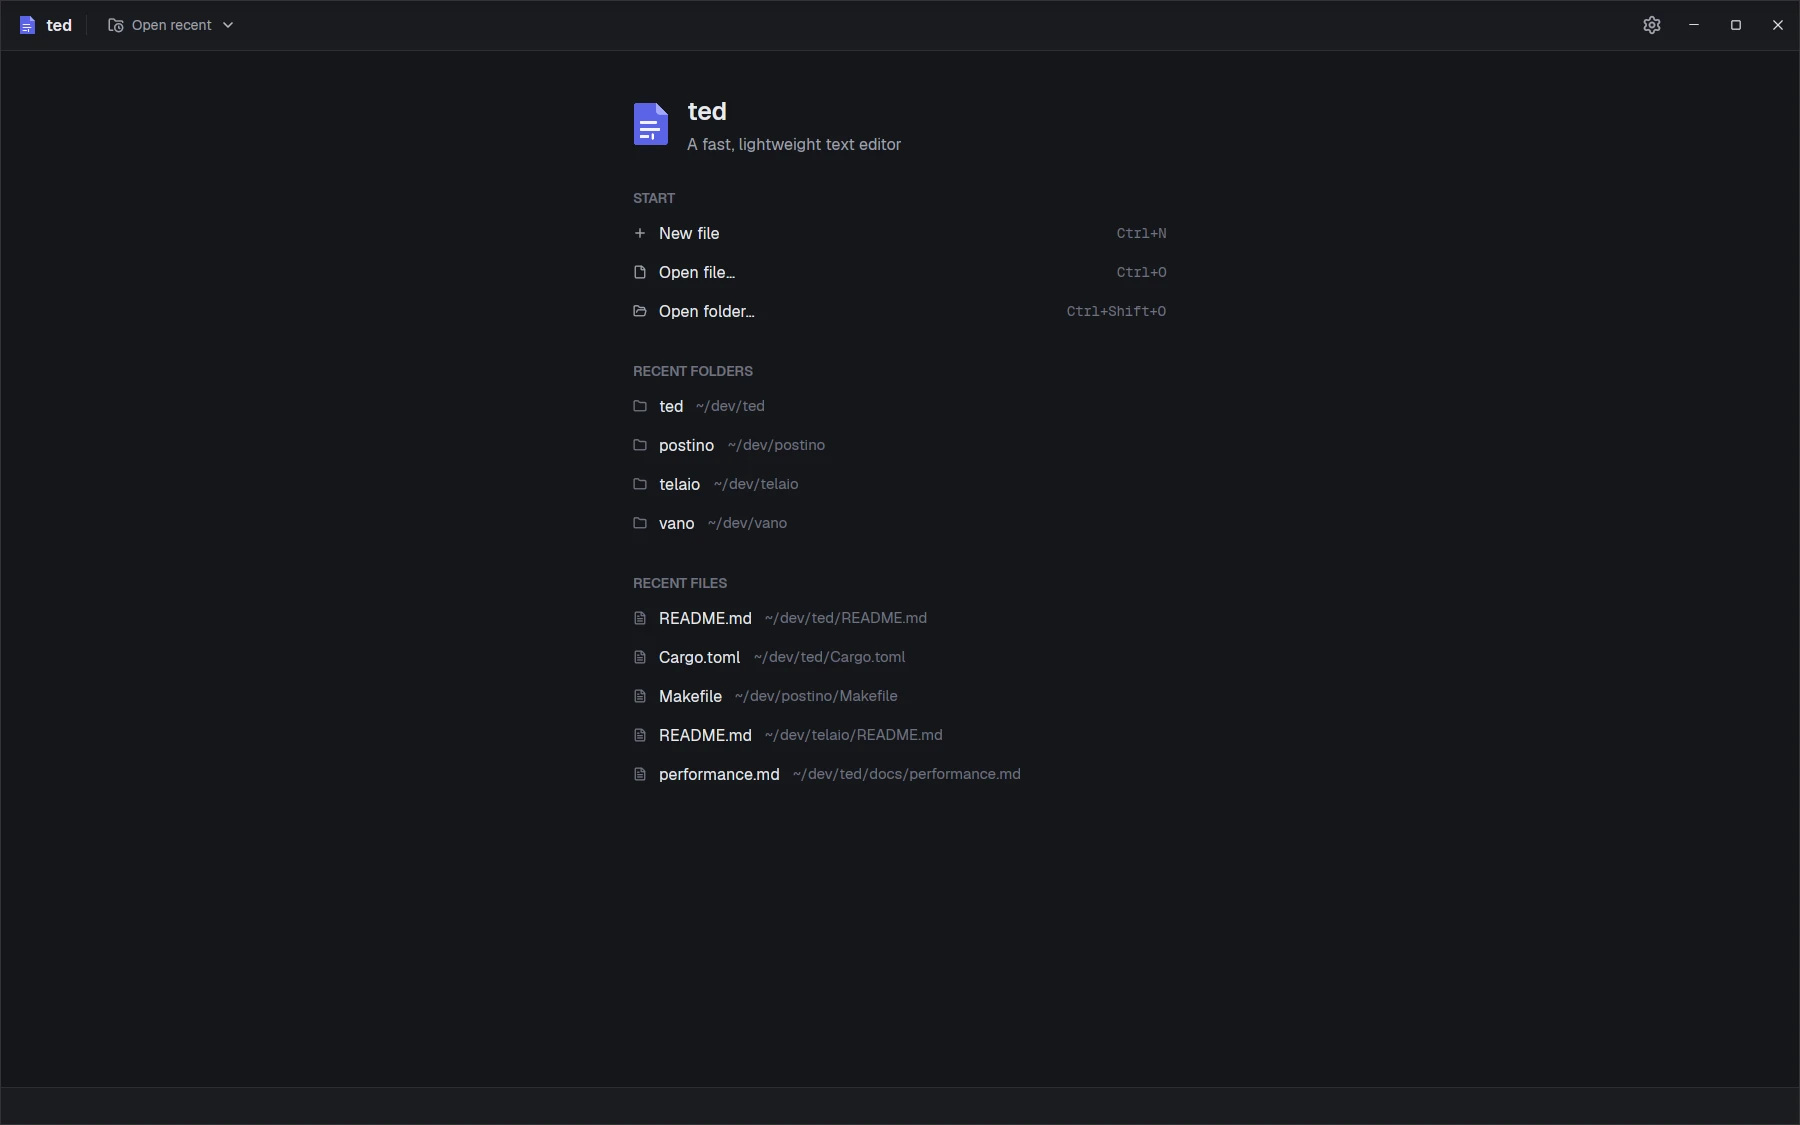
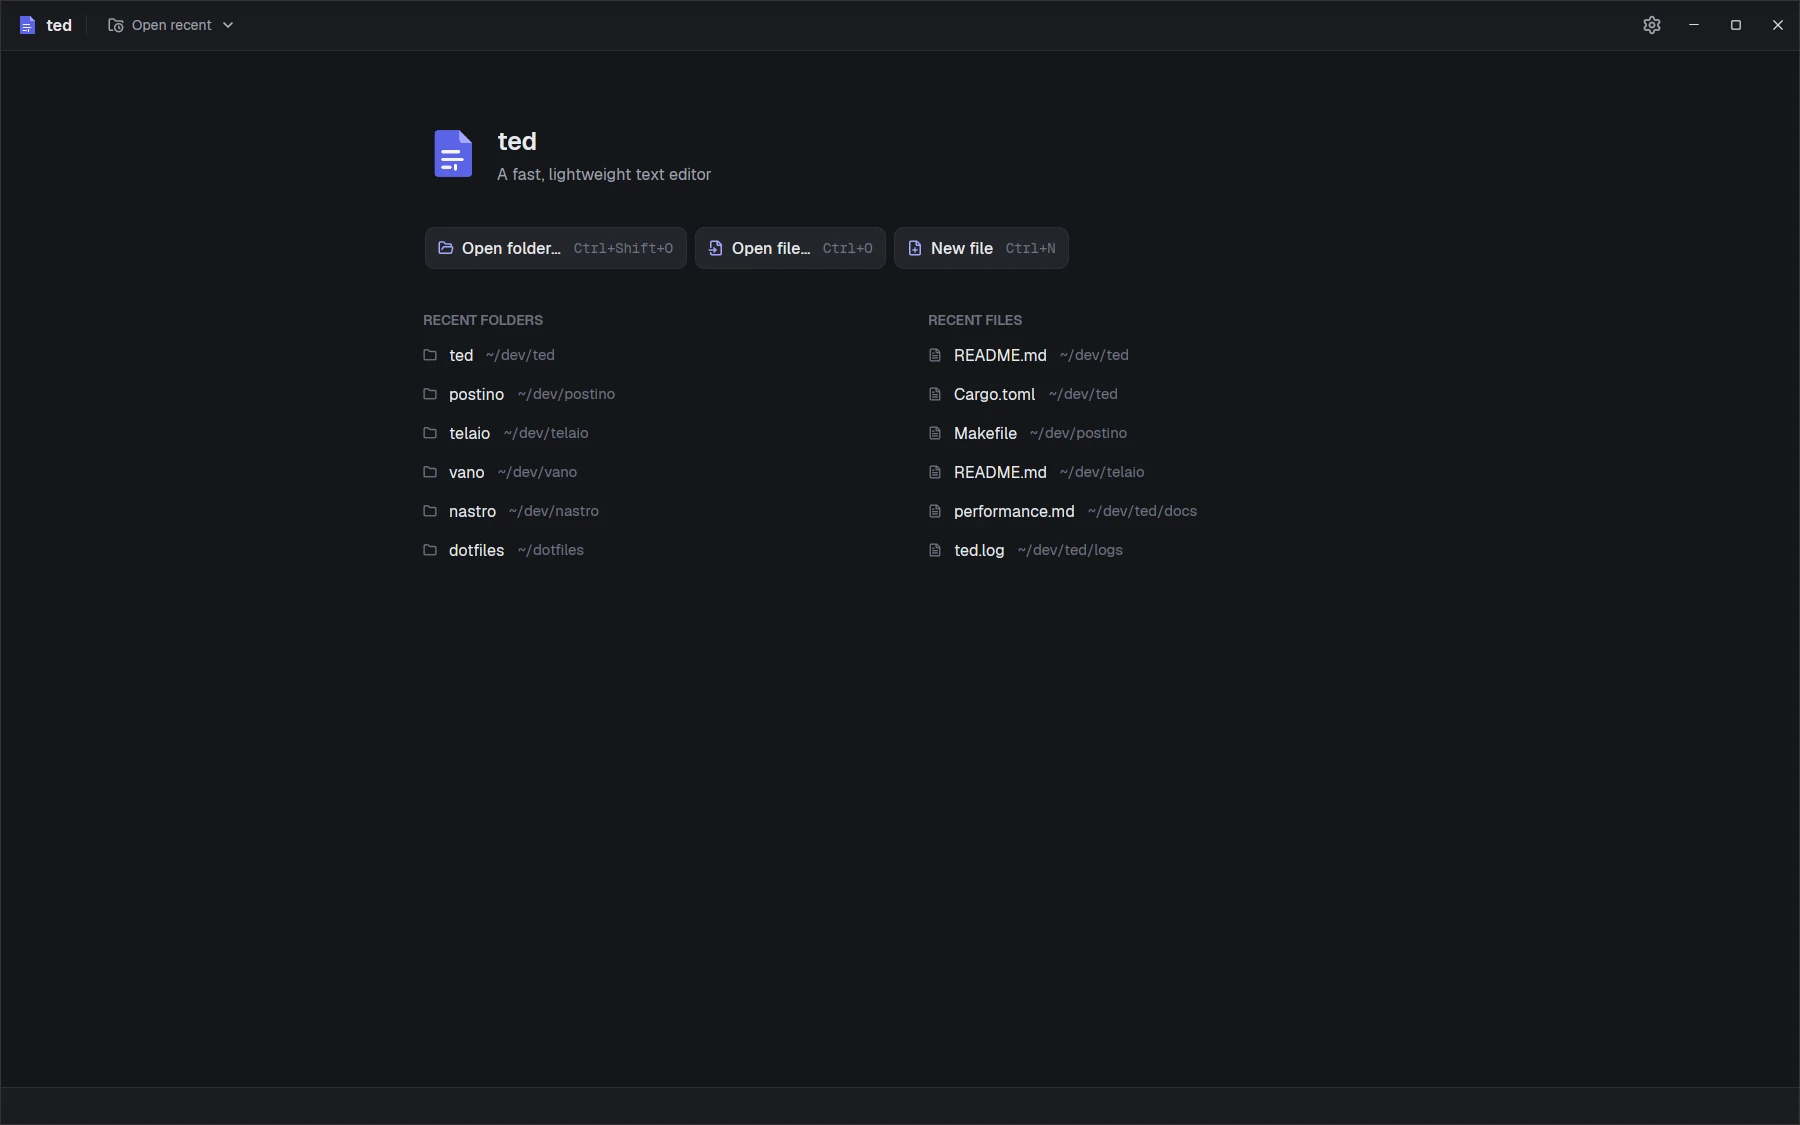
Welcome screen: recent folders and files in two columns
As in design v3: the actions become a row of buttons (Open folder, Open
file, New file) and the recents sit side by side in columns at least
280 px wide, stacking when the window is narrow. Recent files show their
parent folder. New screenshots for the website.

Closes #42

diff --git a/site/docs-src/pages/quick-start.html b/site/docs-src/pages/quick-start.html
@@ -5,10 +5,10 @@ description: Open a file or a folder, edit, find, save and change the settings, 
 <p class="lead">ted works on files and folders as they are on your disk: there is no project to create. This page goes through a first session.</p>
 
 <h2>Open something</h2>
-<p>With nothing open, ted shows its empty state: <strong>New file</strong>, <strong>Open file…</strong>, <strong>Open folder…</strong>, and the folders and files you opened last. It scrolls when the list does not fit in the window. <strong>New file</strong> creates an untitled document that fills the window; see <a href="saving.html#new-documents">New documents</a>. To start with a new file instead, set <strong>Startup</strong> in <a href="settings.html">Settings</a>.</p>
+<p>With nothing open, ted shows its empty state: <strong>Open folder…</strong>, <strong>Open file…</strong> and <strong>New file</strong>, and below them the folders and files you opened last, in two columns (one when the window is narrow). It scrolls when the lists do not fit in the window. <strong>New file</strong> creates an untitled document that fills the window; see <a href="saving.html#new-documents">New documents</a>. To start with a new file instead, set <strong>Startup</strong> in <a href="settings.html">Settings</a>.</p>
 <div class="shot">
-    <img class="light" src="../img/welcome-light.webp" width="1800" height="1125" loading="lazy" alt="The empty state: New file, Open file and Open folder, then the recent folders and files.">
-    <img class="dark" src="../img/welcome-dark.webp" width="1800" height="1125" loading="lazy" alt="The empty state: New file, Open file and Open folder, then the recent folders and files.">
+    <img class="light" src="../img/welcome-light.webp" width="1800" height="1125" loading="lazy" alt="The empty state: Open folder, Open file and New file, then the recent folders and files in two columns.">
+    <img class="dark" src="../img/welcome-dark.webp" width="1800" height="1125" loading="lazy" alt="The empty state: Open folder, Open file and New file, then the recent folders and files in two columns.">
 </div>
 <ul>
     <li><strong>A file</strong> (<kbd>Ctrl</kbd> <kbd>O</kbd>) opens on its own: the editor fills the window.</li>

diff --git a/site/index.html b/site/index.html
@@ -178,9 +178,9 @@
                         </div>
                         <div class="shot">
                             <img class="light" src="img/welcome-light.webp" width="1800" height="1125" loading="lazy"
-                                alt="The empty state: Open file and Open folder, then the recent folders and files.">
+                                alt="The empty state: Open folder, Open file and New file, then the recent folders and files in two columns.">
                             <img class="dark" src="img/welcome-dark.webp" width="1800" height="1125" loading="lazy"
-                                alt="The empty state: Open file and Open folder, then the recent folders and files.">
+                                alt="The empty state: Open folder, Open file and New file, then the recent folders and files in two columns.">
                         </div>
                     </article>
                 </div>

diff --git a/crates/ted-app/src/views/welcome.rs b/crates/ted-app/src/views/welcome.rs
@@ -1,9 +1,11 @@
 //! The empty state: what the window shows with nothing open. A centered column with the logo,
-//! the New file and Open actions and the recent folders and files, scrolled when it does not fit. Its rows are the design's recents menu
-//! rows (30 px, icon 14, name, path in 12 px `fg_subtle`), shown without the menu's card.
+//! the Open folder, Open file and New file buttons, and the recent folders and files in two
+//! columns, scrolled when it does not fit. The recent rows are the design's recents menu rows
+//! (30 px, icon 14, name, path in 12 px `fg_subtle`), shown without the menu's card.
 
 use std::path::{Path, PathBuf};
 
+use gpui_kit::assets::IconName as AssetIcon;
 use gpui_kit::component::scroll::Scrollbar;
 use gpui_kit::component::*;
 use gpui_kit::prelude::*;
@@ -16,7 +18,9 @@ use super::logo::logo;
 use crate::actions::hints;
 use crate::state::launch::{display_name, shorten_path};
 use crate::theme::metrics::{
-    RADIUS_MD, WELCOME_LOGO_SIZE, WELCOME_ROW_HEIGHT, WELCOME_SECTION_GAP, WELCOME_WIDTH,
+    RADIUS_MD, WELCOME_BUTTON_HEIGHT, WELCOME_COLUMN_GAP, WELCOME_COLUMN_MIN_WIDTH,
+    WELCOME_COLUMN_ROW_GAP, WELCOME_LOGO_SIZE, WELCOME_ROW_HEIGHT, WELCOME_SECTION_GAP,
+    WELCOME_WIDTH,
 };
 use crate::theme::{Palette, PaletteExt};
 
@@ -27,70 +31,69 @@ impl AppView {
     pub(crate) fn render_welcome(&self, cx: &mut Context<Self>) -> AnyElement {
         let palette = cx.palette();
         let home = std::env::home_dir();
-        let mut column = v_flex()
-            .w(px(WELCOME_WIDTH))
-            .max_w_full()
-            .gap(px(WELCOME_SECTION_GAP))
-            .child(render_header(&palette))
-            .child(
-                section(t!("welcome.start"))
-                    .child(self.action_row(
-                        "new-file",
-                        IconName::Plus,
-                        t!("open.new_file"),
-                        hints::NEW_FILE,
-                        |this, window, cx| this.new_document(window, cx),
-                        cx,
-                    ))
-                    .child(self.action_row(
-                        "open-file",
-                        IconName::File,
-                        t!("welcome.open_file"),
-                        hints::OPEN_FILE,
-                        |this, window, cx| this.prompt_open(false, window, cx),
-                        cx,
-                    ))
-                    .child(self.action_row(
-                        "open-folder",
-                        IconName::FolderOpen,
-                        t!("welcome.open_folder"),
-                        hints::OPEN_FOLDER,
-                        |this, window, cx| this.prompt_open(true, window, cx),
-                        cx,
-                    )),
-            );
+        let actions = h_flex()
+            .flex_wrap()
+            .gap_2()
+            .child(self.action_button(
+                "open-folder",
+                AssetIcon::FolderOpen,
+                t!("welcome.open_folder"),
+                hints::OPEN_FOLDER,
+                |this, window, cx| this.prompt_open(true, window, cx),
+                cx,
+            ))
+            .child(self.action_button(
+                "open-file",
+                AssetIcon::FileInput,
+                t!("welcome.open_file"),
+                hints::OPEN_FILE,
+                |this, window, cx| this.prompt_open(false, window, cx),
+                cx,
+            ))
+            .child(self.action_button(
+                "new-file",
+                AssetIcon::FilePlus,
+                t!("open.new_file"),
+                hints::NEW_FILE,
+                |this, window, cx| this.new_document(window, cx),
+                cx,
+            ));
+        // The recents in two columns that wrap to one when the window is narrow, as the
+        // design's `repeat(auto-fit, minmax(280px, 1fr))` grid. The rows' own padding lines
+        // their text up with the actions above, so the columns reach 8 px past each side.
+        let mut recents = h_flex()
+            .flex_wrap()
+            .items_start()
+            .gap_x(px(WELCOME_COLUMN_GAP))
+            .gap_y(px(WELCOME_COLUMN_ROW_GAP))
+            .mx(px(-8.0));
         if !self.recents.folders.is_empty() {
-            column = column.child(
-                section(t!("welcome.recent_folders")).children(
+            recents = recents.child(
+                recents_column(t!("welcome.recent_folders")).children(
                     self.recents
                         .folders
                         .iter()
                         .enumerate()
                         .map(|(index, path)| {
-                            self.recent_row(
-                                ("folder", index),
-                                IconName::Folder,
-                                path,
-                                home.as_deref(),
-                                cx,
-                            )
+                            self.recent_row(("folder", index), true, path, home.as_deref(), cx)
                         }),
                 ),
             );
         }
         if !self.recents.files.is_empty() {
-            column = column.child(section(t!("welcome.recent_files")).children(
+            recents = recents.child(recents_column(t!("welcome.recent_files")).children(
                 self.recents.files.iter().enumerate().map(|(index, path)| {
-                    self.recent_row(
-                        ("file", index),
-                        IconName::FileText,
-                        path,
-                        home.as_deref(),
-                        cx,
-                    )
+                    self.recent_row(("file", index), false, path, home.as_deref(), cx)
                 }),
             ));
         }
+        let column = v_flex()
+            .w_full()
+            .max_w(px(WELCOME_WIDTH))
+            .gap(px(WELCOME_SECTION_GAP))
+            .child(render_header(&palette))
+            .child(actions)
+            .child(recents);
         let area = div()
             .id("welcome")
             .size_full()
@@ -101,9 +104,9 @@ impl AppView {
             // The column keeps its own height, so it overflows (and scrolls) instead of being
             // stretched to the window and cut.
             .items_start()
-            .px_4()
-            .pt(px(32.0))
-            .pb(px(64.0))
+            .px_8()
+            .pt(px(56.0))
+            .pb(px(48.0))
             .child(column);
         // The scrollbar over the area, as Postino's welcome tab. It shows only when the column
         // does not fit.
@@ -141,22 +144,36 @@ impl AppView {
             .into_any_element()
     }
 
-    /// An action: icon, label and the shortcut hint at the right.
-    fn action_row(
+    /// An action button: a raised 34 px button with the accent icon, the label and the
+    /// shortcut hint.
+    fn action_button(
         &self,
         id: &'static str,
-        icon: IconName,
+        icon: AssetIcon,
         label: impl Into<SharedString>,
         hint: &'static str,
         action: impl Fn(&mut Self, &mut Window, &mut Context<Self>) + 'static,
         cx: &mut Context<Self>,
     ) -> Stateful<Div> {
         let palette = cx.palette();
-        row(id, &palette)
-            .child(Icon::new(icon).small().text_color(palette.fg_muted))
-            .child(div().flex_1().child(label.into()))
+        let (hover_border, hover_bg) = (palette.border_strong, palette.overlay);
+        h_flex()
+            .id(id)
+            .h(px(WELCOME_BUTTON_HEIGHT))
+            .px_3()
+            .gap_2()
+            .items_center()
+            .rounded(px(RADIUS_MD))
+            .bg(palette.raised)
+            .border_1()
+            .border_color(palette.border)
+            .cursor_pointer()
+            .hover(move |style| style.border_color(hover_border).bg(hover_bg))
+            .child(Icon::new(icon).text_color(palette.accent_text))
+            .child(div().font_weight(FontWeight::MEDIUM).child(label.into()))
             .child(
                 div()
+                    .ml_1()
                     .font_family(cx.theme().mono_font_family.clone())
                     .text_size(px(11.0))
                     .text_color(palette.fg_subtle)
@@ -165,17 +182,22 @@ impl AppView {
             .on_click(cx.listener(move |this, _, window, cx| action(this, window, cx)))
     }
 
-    /// A recent folder or file: icon, name and the shortened path, which opens it when clicked.
+    /// A recent folder or file: icon, name and the shortened path (the folder that holds it, for
+    /// a file), which opens it when clicked.
     fn recent_row(
         &self,
         id: impl Into<ElementId>,
-        icon: IconName,
+        folder: bool,
         path: &Path,
         home: Option<&Path>,
         cx: &mut Context<Self>,
     ) -> Stateful<Div> {
         let palette = cx.palette();
         let target: PathBuf = path.to_path_buf();
+        let (icon, location) = match folder {
+            true => (IconName::Folder, path),
+            false => (IconName::FileText, path.parent().unwrap_or(path)),
+        };
         row(id, &palette)
             .child(Icon::new(icon).small().text_color(palette.fg_subtle))
             .child(
@@ -192,7 +214,7 @@ impl AppView {
                     .truncate()
                     .text_size(px(12.0))
                     .text_color(palette.fg_subtle)
-                    .child(shorten_path(path, home)),
+                    .child(shorten_path(location, home)),
             )
             .on_click(cx.listener(move |this, _, window, cx| this.open_path(&target, window, cx)))
     }
@@ -200,7 +222,7 @@ impl AppView {
 
 /// The large logo, the name and the tagline.
 fn render_header(palette: &Palette) -> impl IntoElement {
-    h_flex().gap_3().child(logo(WELCOME_LOGO_SIZE)).child(
+    h_flex().gap(px(14.0)).child(logo(WELCOME_LOGO_SIZE)).child(
         v_flex()
             .child(
                 div()
@@ -216,9 +238,13 @@ fn render_header(palette: &Palette) -> impl IntoElement {
     )
 }
 
-/// A section: its label, then its rows.
-fn section(label: impl Into<SharedString>) -> Div {
+/// A column of recents: its label, then its rows. It grows to fill its line and wraps below
+/// the other one when the two do not fit side by side.
+fn recents_column(label: impl Into<SharedString>) -> Div {
     v_flex()
+        .flex_grow_1()
+        .flex_basis(px(WELCOME_COLUMN_MIN_WIDTH))
+        .min_w_0()
         .gap(px(2.0))
         .child(div().px_2().pb_1().child(SectionLabel::new(label)))
 }

diff --git a/crates/ted-app/src/theme/metrics.rs b/crates/ted-app/src/theme/metrics.rs
@@ -34,14 +34,21 @@ pub const EDITOR_GUTTER_RIGHT: f32 = 16.0;
 pub const EDITOR_TEXT_PADDING: f32 = 4.0;
 /// Width of the editor's vertical scrollbar.
 pub const EDITOR_SCROLLBAR_WIDTH: f32 = 10.0;
-/// Width of the empty state's column.
-pub const WELCOME_WIDTH: f32 = 440.0;
+/// Largest width of the empty state's column.
+pub const WELCOME_WIDTH: f32 = 760.0;
 /// Side of the app icon in the empty state.
-pub const WELCOME_LOGO_SIZE: f32 = 40.0;
+pub const WELCOME_LOGO_SIZE: f32 = 44.0;
+/// Height of the empty state's action buttons.
+pub const WELCOME_BUTTON_HEIGHT: f32 = 34.0;
+/// Narrowest column of recents: below two of them (and their gap) they stack.
+pub const WELCOME_COLUMN_MIN_WIDTH: f32 = 280.0;
+/// Space between the two columns of recents, and between them when stacked.
+pub const WELCOME_COLUMN_GAP: f32 = 32.0;
+pub const WELCOME_COLUMN_ROW_GAP: f32 = 28.0;
 /// Height of a row of the empty state (actions and recents), as the design's menu rows.
 pub const WELCOME_ROW_HEIGHT: f32 = 30.0;
 /// Space between the sections of the empty state.
-pub const WELCOME_SECTION_GAP: f32 = 24.0;
+pub const WELCOME_SECTION_GAP: f32 = 32.0;
 /// Default width of the explorer panel.
 pub const EXPLORER_WIDTH: f32 = 260.0;
 /// Narrowest the explorer panel can be dragged to.

diff --git a/docs/design-system.md b/docs/design-system.md
@@ -266,16 +266,21 @@ count and the measured advance of Geist Mono, not from the 0.62 constant.
 ### Empty state, with recents
 
 No argument on the command line, or nothing opened yet (`views/welcome.rs`). No tabs, no editor,
-no explorer. A column of 440 px (`WELCOME_WIDTH`), centered horizontally, 64 px from the top, that
-scrolls when the recents do not fit. Its sections are 24 px apart:
+no explorer. A column up to 760 px wide (`WELCOME_WIDTH`), centered horizontally, 56 px from the
+top with 32 px at the sides, that scrolls when the recents do not fit. Its sections are 32 px
+apart:
 
-1. **Header**: the app icon at 40 px, "ted" 20/600
-   and the tagline in `fg_muted`.
-2. **Start**: Open file and Open folder rows, the shortcut at the right in Geist Mono 11
-   `fg_subtle` (`Ctrl+O`, `Ctrl+Shift+O`; the macOS glyphs on macOS).
-3. **Recent folders** and **Recent files** (10 each at most, hidden when empty): rows with the
-   icon (folder or file-text, 14, `fg_subtle`), the name (truncated at 180 px) and the path with
-   the home folder as `~` in 12 px `fg_subtle`, truncated.
+1. **Header**: the app icon at 44 px, 14 px gap, "ted" 20/600 and the tagline in `fg_muted`.
+2. **Actions**: three buttons in a wrapping row, 8 px apart: Open folder, Open file and New file.
+   Each is 34 px high, 12 px side padding, radius 8, `raised` with a `border` (`border_strong`
+   and `overlay` on hover), the icon (folder-open, file-input, file-plus) in `accent_text`, the
+   label 500, and the shortcut in Geist Mono 11 `fg_subtle`.
+3. **Recent folders** and **Recent files** (10 each at most, hidden when empty), side by side in
+   two columns at least 280 px wide (`WELCOME_COLUMN_MIN_WIDTH`), 32 px apart; they stack, 28 px
+   apart, when the window is too narrow. The columns reach 8 px past the column's sides, so the
+   rows' text lines up with the buttons. Rows have the icon (folder or file-text, 14,
+   `fg_subtle`), the name (truncated at 180 px) and, in 12 px `fg_subtle` and truncated, the
+   folder's path or the file's parent folder, with the home folder as `~`.
 
 Sections start with a `SectionLabel` (11/600 uppercase `fg_subtle`). Rows are 30 px high, 8 px
 side padding, gap 10, radius 6, `hover` background on hover, pointer cursor; a click opens. The
